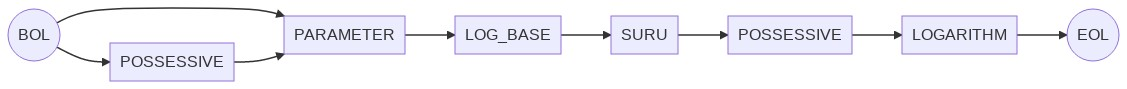
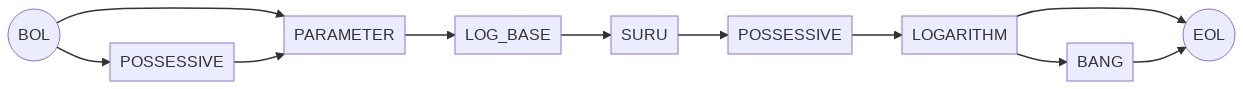
raise errors during log for undefined parameters; allow suppression with bang; update tests; update syntax; update documentation

diff --git a/spec/interpreter/processor/errors/log_of_undefined_base_spec.rb b/spec/interpreter/processor/errors/log_of_undefined_base_spec.rb
@@ -1,0 +1,31 @@
+require './src/token'
+require './src/interpreter/processor'
+require './src/interpreter/errors'
+
+require './spec/contexts/processor'
+
+RSpec.describe Interpreter::Processor, 'error handling' do
+  include_context 'processor'
+
+  describe '#execute' do
+    it 'raises an error when calling log with base 0' do
+      tokens = [
+        Token.new(Token::PARAMETER, '0', particle: 'を', sub_type: Token::VAL_NUM),
+        Token.new(Token::PARAMETER, '10', particle: 'の', sub_type: Token::VAL_NUM),
+        Token.new(Token::LOGARITHM),
+        Token.new(Token::BANG, '!'),
+      ]
+      expect_error_unless_bang tokens, Interpreter::Errors::LogOfUndefinedBase
+    end
+
+    it 'raises an error when calling log with base 1' do
+      tokens = [
+        Token.new(Token::PARAMETER, '1', particle: 'を', sub_type: Token::VAL_NUM),
+        Token.new(Token::PARAMETER, '10', particle: 'の', sub_type: Token::VAL_NUM),
+        Token.new(Token::LOGARITHM),
+        Token.new(Token::BANG, '!'),
+      ]
+      expect_error_unless_bang tokens, Interpreter::Errors::LogOfUndefinedBase
+    end
+  end
+end

diff --git a/spec/interpreter/processor/misc_spec.rb b/spec/interpreter/processor/misc_spec.rb
@@ -79,26 +79,15 @@ RSpec.describe Interpreter::Processor, 'misc' do
       expect(sore).to eq 3
     end
 
-    it 'returns nil when calculating the log of 0' do
+    it 'returns "nice" numbers if possible when calculating log' do
       mock_options argv: ['hoge']
       mock_lexer(
-        Token.new(Token::PARAMETER, '2', sub_type: Token::VAL_NUM),
-        Token.new(Token::PARAMETER, '0', sub_type: Token::VAL_NUM),
+        Token.new(Token::PARAMETER, '8', sub_type: Token::VAL_NUM),
+        Token.new(Token::PARAMETER, '134217728', sub_type: Token::VAL_NUM),
         Token.new(Token::LOGARITHM),
       )
       execute
-      expect(sore).to eq nil
-    end
-
-    it 'returns nil when calculating log with base 0' do
-      mock_options argv: ['hoge']
-      mock_lexer(
-        Token.new(Token::PARAMETER, '0', sub_type: Token::VAL_NUM),
-        Token.new(Token::PARAMETER, '2', sub_type: Token::VAL_NUM),
-        Token.new(Token::LOGARITHM),
-      )
-      execute
-      expect(sore).to eq nil
+      expect(sore).to eq 9.0
     end
   end
 end

diff --git a/src/interpreter/processor/token_processors/logarithm.rb b/src/interpreter/processor/token_processors/logarithm.rb
@@ -1,6 +1,8 @@
 module Interpreter
   class Processor
     module TokenProcessors
+      # QoL note: returns the rounded log if it gives the original argument when
+      # raising raising the same base
       def process_logarithm(_token)
         (base, argument) = resolve_parameters_from_stack!
 
@@ -9,9 +11,19 @@ module Interpreter
 
         Util::Logger.debug Util::Options::DEBUG_2, "log base #{base} of #{argument}".lpink
 
-        return @sore = nil if base.zero? || argument.zero?
+        should_suppress_error = !next_token_if(Token::BANG).nil?
 
-        @sore = Math.log argument, base
+        begin
+          raise Errors::LogOfUndefinedBase, base if [0, 1].include? base
+          raise Errors::LogOfZero if argument.zero?
+
+          log = Math.log argument, base
+          log = log.round if base**log.round == argument
+          @sore = log
+        rescue
+          raise unless should_suppress_error
+          @sore = nil
+        end
       end
     end
   end

diff --git a/spec/interpreter/processor/errors/log_of_zero_spec.rb b/spec/interpreter/processor/errors/log_of_zero_spec.rb
@@ -1,0 +1,21 @@
+require './src/token'
+require './src/interpreter/processor'
+require './src/interpreter/errors'
+
+require './spec/contexts/processor'
+
+RSpec.describe Interpreter::Processor, 'error handling' do
+  include_context 'processor'
+
+  describe '#execute' do
+    it 'raises an error when calling log of 0' do
+      tokens = [
+        Token.new(Token::PARAMETER, '10', particle: 'を', sub_type: Token::VAL_NUM),
+        Token.new(Token::PARAMETER, '0', particle: 'の', sub_type: Token::VAL_NUM),
+        Token.new(Token::LOGARITHM),
+        Token.new(Token::BANG, '!'),
+      ]
+      expect_error_unless_bang tokens, Interpreter::Errors::LogOfZero
+    end
+  end
+end

diff --git a/spec/interpreter/processor/properties_spec.rb b/spec/interpreter/processor/properties_spec.rb
@@ -748,6 +748,16 @@ RSpec.describe Interpreter::Processor, 'properties' do
       end
     end
 
+    it 'returns "nice" roots even when nth root is above 3' do
+      mock_lexer(
+        Token.new(Token::ASSIGNMENT, 'ホゲ', sub_type: Token::VARIABLE),
+        Token.new(Token::POSSESSIVE, '134217728', sub_type: Token::VAL_NUM),
+        Token.new(Token::PROPERTY, '9', sub_type: Token::PROP_ROOT),
+      )
+      execute
+      expect(variable('ホゲ')).to eq 8.0
+    end
+
     private
 
     def hoge_fuga_array_tokens

diff --git a/src/tokenizer/constants.rb b/src/tokenizer/constants.rb
@@ -340,6 +340,7 @@ module Tokenizer
       { mod: EXACTLY_ONE, token: Token::SURU },       # SURU
       { mod: EXACTLY_ONE, token: Token::POSSESSIVE }, # POSSESSIVE
       { mod: EXACTLY_ONE, token: Token::LOGARITHM },  # LOGARITHM
+      { mod: ZERO_OR_ONE, token: Token::BANG },       # BANG ?
       { mod: EXACTLY_ONE, token: Token::EOL },        # EOL
     ],
 

diff --git a/documentation/manual_jp.md b/documentation/manual_jp.md
@@ -1256,7 +1256,7 @@ $ ./snapdragon hoge.sd --debug3 -- --オプションではない
 
 実際は、本当のビルトインではないが、動作が殆ど同様だ。
 
-`真数ｘ`となる`底ｂ`のｐ乗の計算だと、冪指数`p`を返す（`p = log_b(x)`）。`底b`又は`真数x`が0の場合、`無`を返す。
+`真数ｘ`となる`底ｂ`のｐ乗の計算だと、冪指数`p`を返す（`p = log_b(x)`）。
 
 | 引数                         | 戻り値     | ひらがな可能 |
 | ---------------------------- | ---------- | ------------ |

diff --git a/documentation/manual.md b/documentation/manual.md
@@ -1249,7 +1249,7 @@ Finds the remainder of `被除数` when divided by `除数`. If `被除数` is o
 
 Technically not a true built-in, but operates similarly for practical purposes.
 
-Finds the base `底b` logarithm of `真数x` (`log_b(x)`). Returns `無` if either `底b` or `真数x` is 0.
+Finds the base `底b` logarithm of `真数x` (`log_b(x)`).
 
 | Parameters                        | Return         | ひらがな Allowed? |
 | --------------------------------- | -------------- | ----------------- |

diff --git a/documentation/nfsm.md b/documentation/nfsm.md
@@ -630,7 +630,7 @@ graph LR
 
 ![no-op](./nfsm/logarithm.png)
 
-`BOL POSSESSIVE ? PARAMETER LOG_BASE SURU POSSESSIVE LOGARITHM EOL`
+`BOL POSSESSIVE ? PARAMETER LOG_BASE SURU POSSESSIVE LOGARITHM BANG ? EOL`
 
 ```mermaid
 graph LR
@@ -643,7 +643,11 @@ graph LR
   --> SURU
   --> POSSESSIVE
   --> LOGARITHM
-  --> EOL((EOL))
+
+  LOGARITHM --> BANG
+  LOGARITHM --> EOL((EOL))
+
+  BANG --> EOL
 ```
 
 ## MISC
